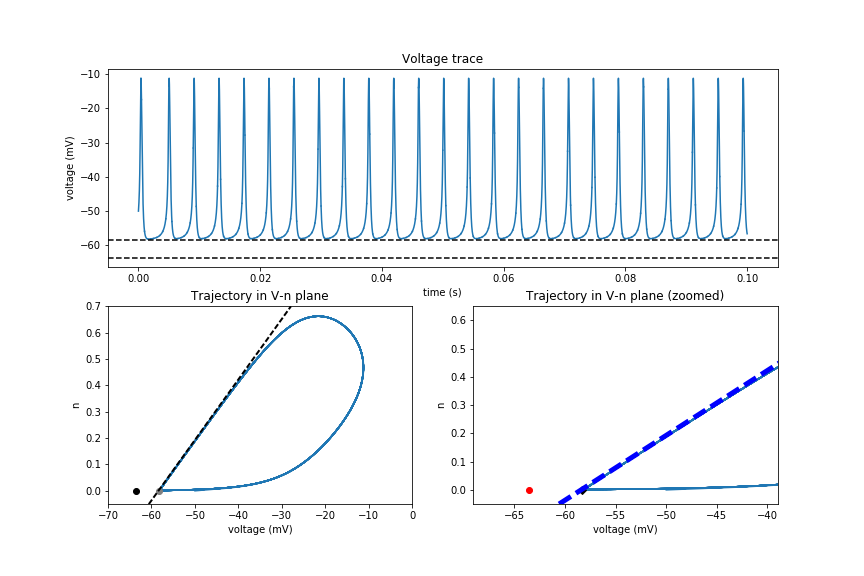
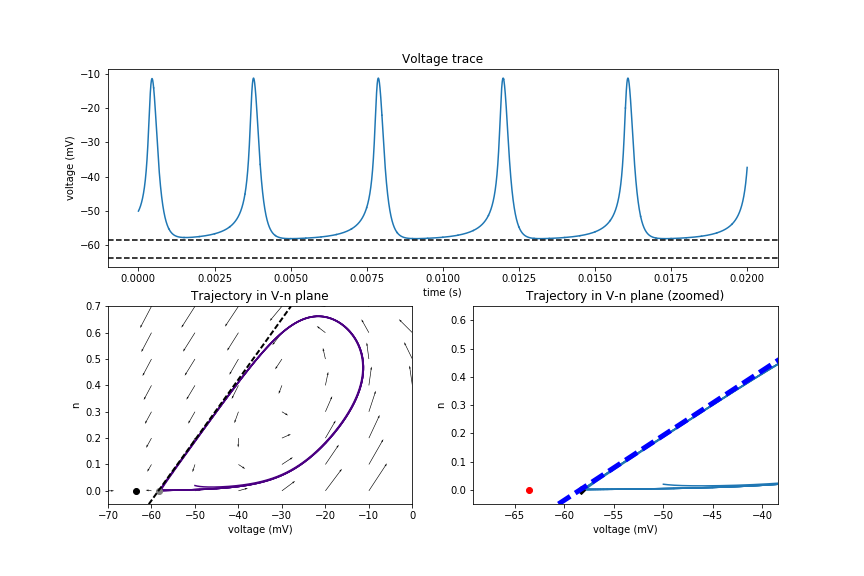
playing with plots

diff --git a/Neuron.py b/Neuron.py
@@ -42,7 +42,7 @@ def simulate_neuron(tau_n, Iapp, number, v0, n0, duration, I_noise):
                
     return Spike_t, Spike_i, t, V, n    
     
-def find_points(tau_n, Iapp, v0=[-75,-65,-40, -64,-60,-50]*mV,n0=[.05,.05,-.1, -.1,-.1,0.02], plot = False):
+def find_points(tau_n, Iapp, v0=[-75,-65,-40, -64,-60,-50]*mV,n0=[.05,.05,-.1, -.1,-.1,.01], plot = False):
     '''finds the node and lowest point of limimt cycle in terms of voltage values
         trying to define threshold automatically '''
     Spike_t, Spike_i, t, V, n = simulate_neuron(tau_n=tau_n, Iapp=Iapp, number = 6, v0=v0, n0=n0, duration=20*ms, 
@@ -130,41 +130,53 @@ def plot_traces(t,V,n,node, saddle, sep_slope, cycle_boundary):
     '''plots voltage against time'''   
 #    plot_animated(np.array([V.T.flatten(), n.T.flatten()]),node, saddle, sep_slope, cycle_boundary)
     
-    plt.figure(figsize=(12, 8))
-    plt.subplot2grid((2,2),(0,0), colspan=2)
-    plt.title('Voltage trace')
-    plt.xlabel('time (s)')
-    plt.ylabel('voltage (mV)')
-    plt.plot(t, V.T) 
-    plt.axhline(y = node[0],color='0', linestyle ='--')
-    plt.axhline(y = saddle[0],color='0', linestyle ='--')
-    plt.subplot2grid((2,2),(1,0))
-    plt.title('Trajectory in V-n plane')
-    plt.xlabel('voltage (mV)')
-    plt.ylabel('n')
-    plt.plot(V.T,n.T)
-    plt.plot(node[0], node[1],marker='o', color='0')
-    plt.plot(saddle[0], saddle[1], marker = 'o', color = '.5')
+    plt.figure(figsize=(5, 5))
+    
+    plt.plot(V.T,n.T, color = '#4B0082', linewidth = 1)
+    plt.plot(node[0], node[1],marker='o', color='0', ms = 5)
+    plt.plot(saddle[0], saddle[1], marker = 'o', color = '.5', ms=5)
     y = np.linspace(-.1,.7,50)
     x = sep_slope[0]/sep_slope[1]*(y-saddle[1])+saddle[0]
+    print(saddle, x[5:15], y[5:15])
     plt.plot(saddle[0], saddle[1], color = '0')
-    plt.plot(x,y, color = '0', linestyle = '--',linewidth = 2)
+    plt.plot(x,y, color = '0', linestyle = '--',linewidth = 1)
     plt.xlim((-70,0))
     plt.ylim((-.05,.7))
-    plot_field(tau_n, Iapp, plot = True)
-    plt.subplot2grid((2,2),(1,1))
-    plt.title('Trajectory in V-n plane (zoomed)')
-    plt.xlabel('voltage (mV)')
-    plt.ylabel('n')
-    plt.plot(V.T,n.T)
-    plt.plot(node[0], node[1],marker='o', color='r')
-    plt.plot(saddle[0], saddle[1], marker = 'D', color = '0')
-    plt.xlim((min(node[0]-(cycle_boundary[0]-node[0]),cycle_boundary[0]+(cycle_boundary[0]-node[0])), 
-              max(node[0]-3.5*(cycle_boundary[0]-node[0]),cycle_boundary[0]+3.5*(cycle_boundary[0]-node[0]))))
-    y = np.linspace(-.05,.5,50)
-    x = sep_slope[0]/sep_slope[1]*(y-saddle[1])+saddle[0]
-    plt.plot(x,y, color = 'b', linestyle = '--', linewidth = 5)
-    plt.ylim((-.05,.65))
+    
+#    plt.subplot2grid((2,2),(0,0), colspan=2)
+#    plt.title('Voltage trace')
+#    plt.xlabel('time (s)')
+#    plt.ylabel('voltage (mV)')
+#    plt.plot(t, V.T) 
+#    plt.axhline(y = node[0],color='0', linestyle ='--')
+#    plt.axhline(y = saddle[0],color='0', linestyle ='--')
+#    plt.subplot2grid((2,2),(1,0))
+#    plt.title('Trajectory in V-n plane')
+#    plt.xlabel('voltage (mV)')
+#    plt.ylabel('n')
+#    plt.plot(V.T,n.T, color = '#4B0082')
+#    plt.plot(node[0], node[1],marker='o', color='0')
+#    plt.plot(saddle[0], saddle[1], marker = 'o', color = '.5')
+#    y = np.linspace(-.1,.7,50)
+#    x = sep_slope[0]/sep_slope[1]*(y-saddle[1])+saddle[0]
+#    plt.plot(saddle[0], saddle[1], color = '0')
+#    plt.plot(x,y, color = '0', linestyle = '--',linewidth = 2)
+#    plt.xlim((-70,0))
+#    plt.ylim((-.05,.7))
+##    plot_field(tau_n, Iapp, plot = True)
+#    plt.subplot2grid((2,2),(1,1))
+#    plt.title('Trajectory in V-n plane (zoomed)')
+#    plt.xlabel('voltage (mV)')
+#    plt.ylabel('n')
+#    plt.plot(V.T,n.T)
+#    plt.plot(node[0], node[1],marker='o', color='r')
+#    plt.plot(saddle[0], saddle[1], marker = 'D', color = '0')
+#    plt.xlim((min(node[0]-(cycle_boundary[0]-node[0]),cycle_boundary[0]+(cycle_boundary[0]-node[0])), 
+#              max(node[0]-3.5*(cycle_boundary[0]-node[0]),cycle_boundary[0]+3.5*(cycle_boundary[0]-node[0]))))
+#    y = np.linspace(-.05,.5,50)
+#    x = sep_slope[0]/sep_slope[1]*(y-saddle[1])+saddle[0]
+#    plt.plot(x,y, color = 'b', linestyle = '--', linewidth = 5)
+#    plt.ylim((-.05,.65))
     
 def quiet_stats(t, V, n, Spikes, saddle, sep_slope,node):
     '''We count as quiet ISIs when V reached the neighbourhhod of the node'''
@@ -258,7 +270,7 @@ def plot_histograms(results):
     
 def plot_field(tau_n, Iapp, plot = False):
     '''Plots phase plane for given parameters'''
-    v_grid ,n_grid = np.meshgrid(np.linspace(-70,0,15), np.linspace(-0,.7,15))
+    v_grid ,n_grid = np.meshgrid(np.linspace(-70,0,8), np.linspace(-0,.7,8))
     dv_grid = ((-g_Na*1./(1+exp((-20-v_grid)/15.))*(v_grid-E_Na/mV)-g_K*n_grid*(v_grid-E_K/mV)
                 -g_L*(v_grid-E_L/mV)+Iapp/mV/1000)/Cm)*ms/70
     dn_grid = (1./(1+exp((-25-v_grid)/5.))-n_grid)/tau_n*ms/.75
@@ -320,7 +332,7 @@ tau = 1.0*ms
 
 #parameters to play with
 tau_n = .155*ms
-Iapp = 4* uA #/cm**2
+Iapp = 3.9* uA #/cm**2
 I_noise = 2.5*uA
 duration = 2.5*ms
 
@@ -343,4 +355,4 @@ m_inf = 1./(1+exp((-20-v/mV)/15.)) : 1
 
 find_points(tau_n=tau_n, Iapp=Iapp, plot = True)
 #find_sep_approx(tau_n=tau_n, Iapp=Iapp)
-plot_field(tau_n, Iapp, plot = True)
+#plot_field(tau_n, Iapp, plot = True)
